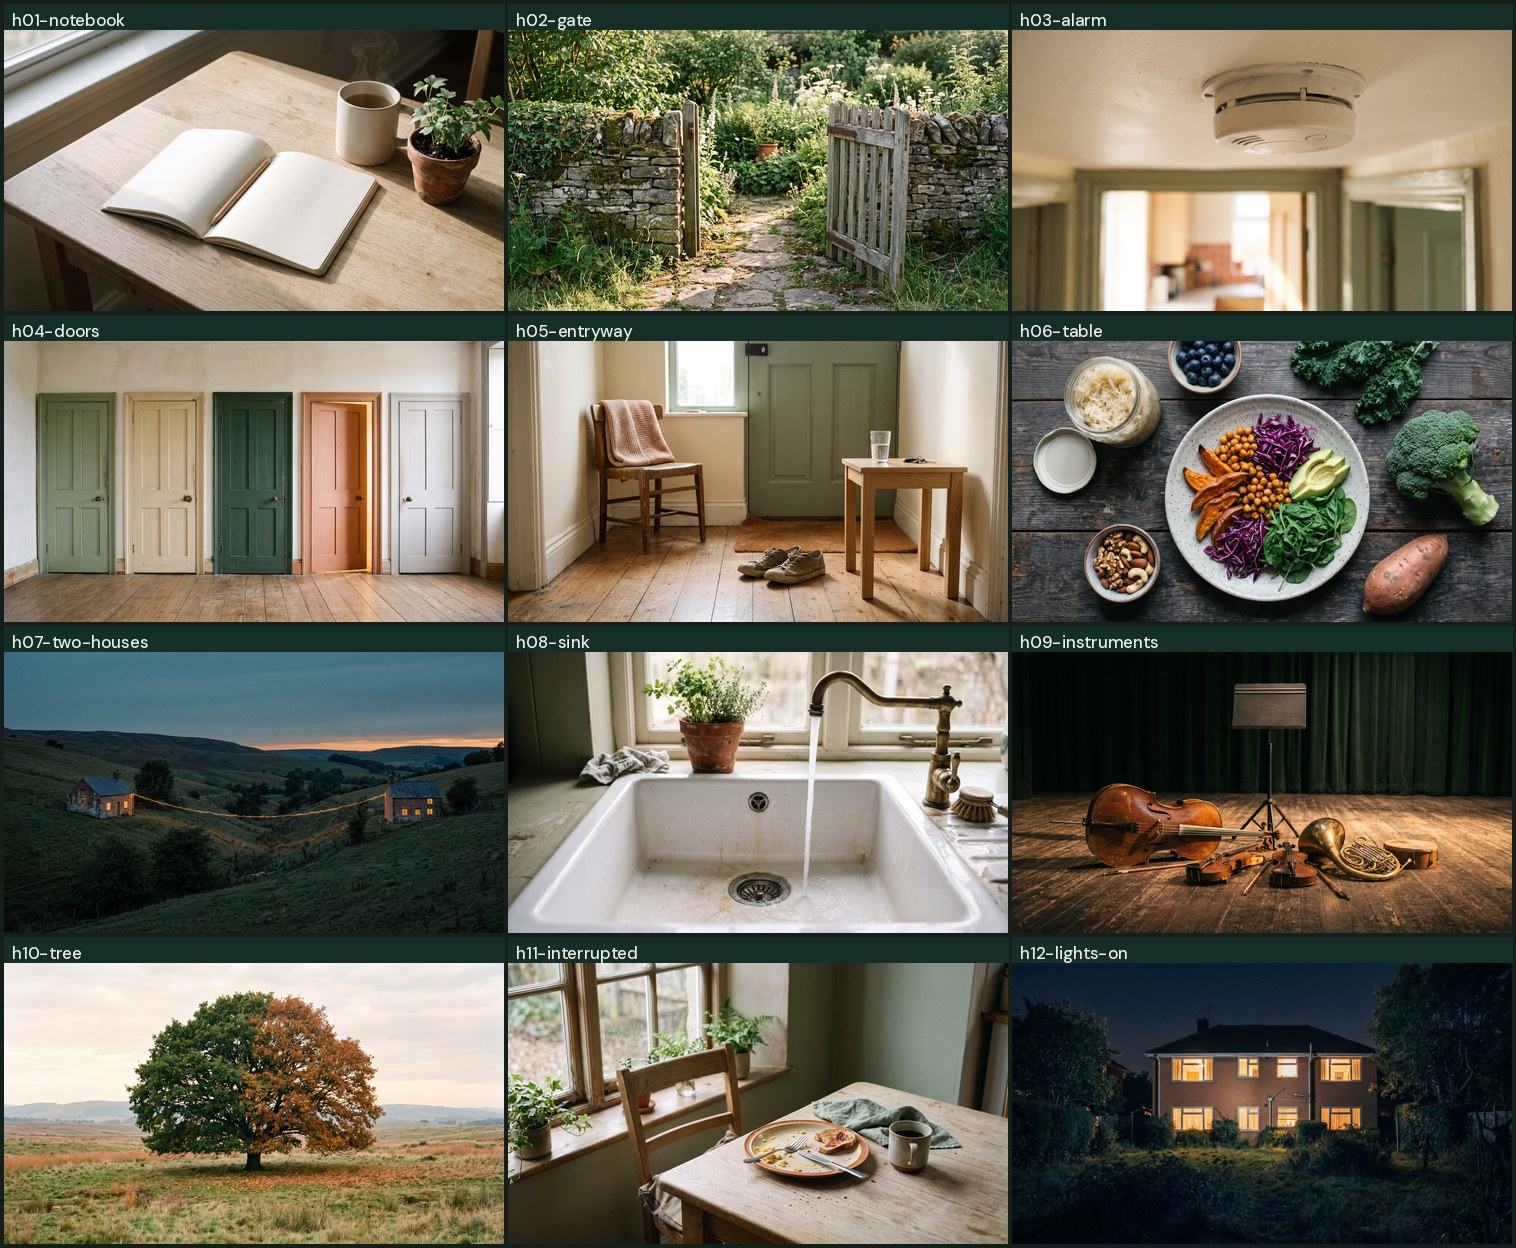
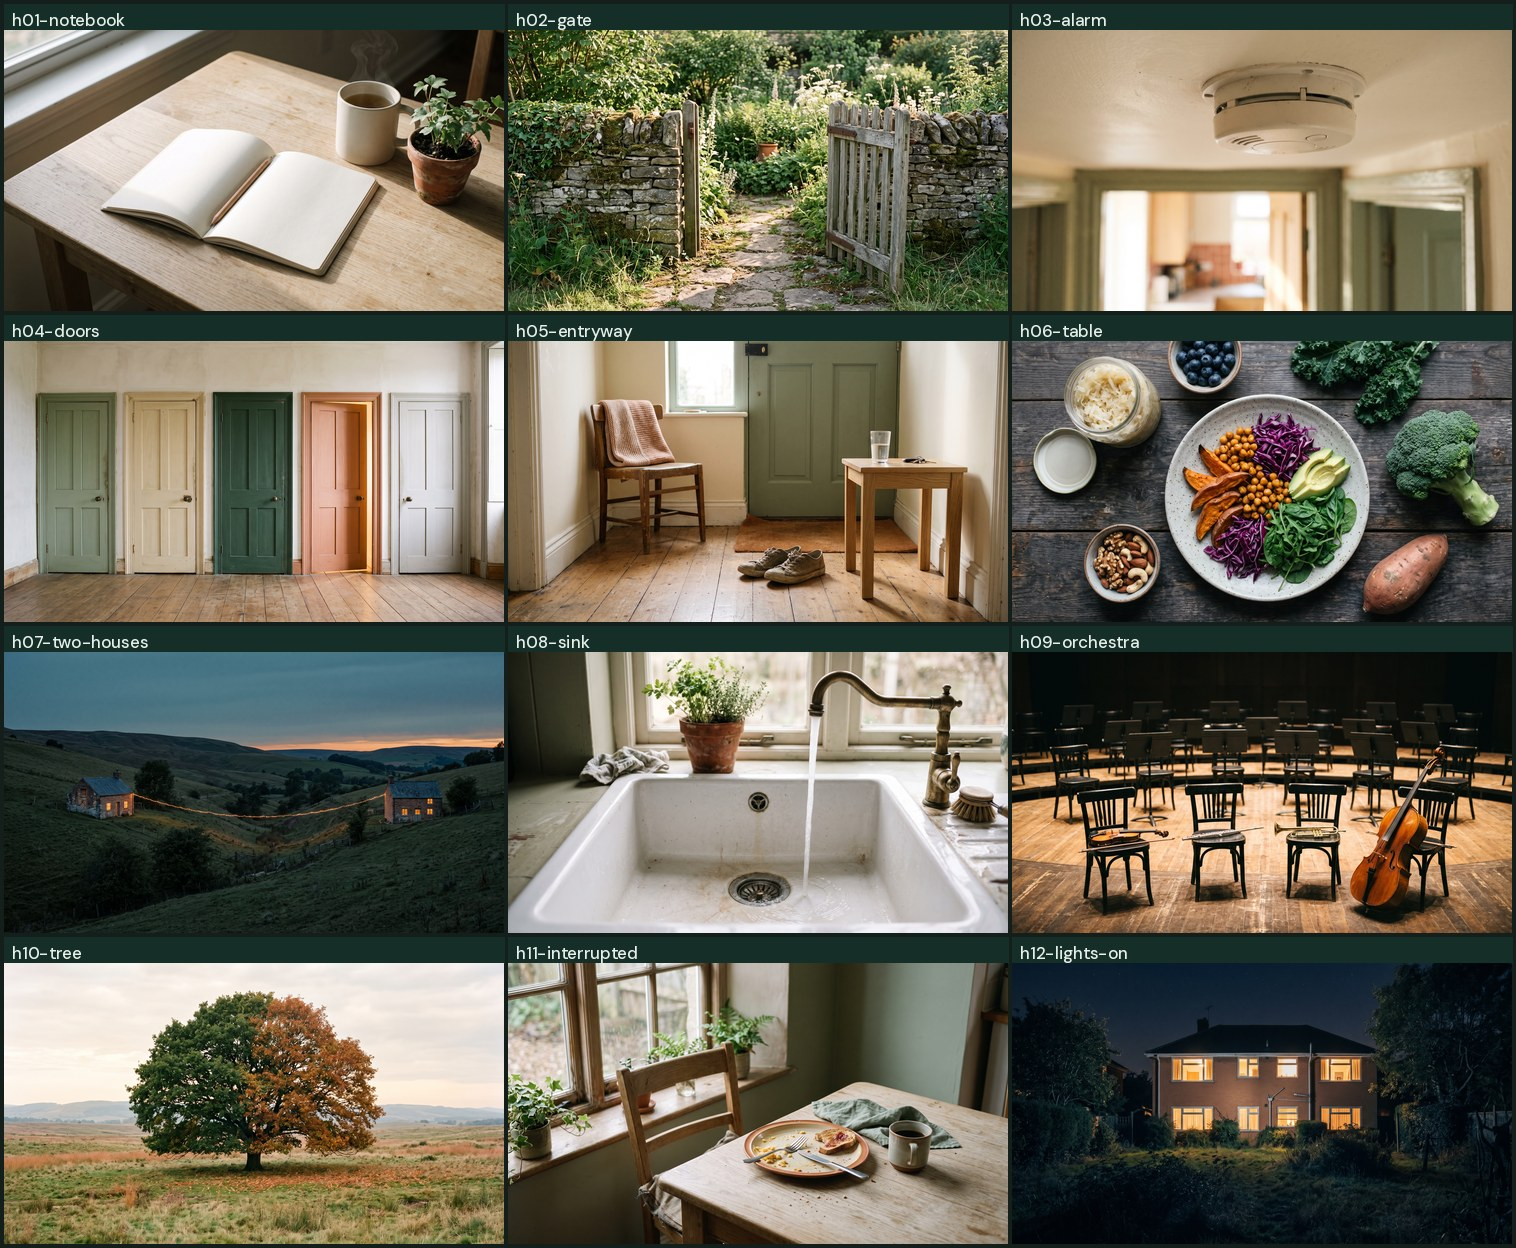
Choose C3 for Lesson 08 and stage the twelve heroes for upload
C3 keeps the music stands in the rows behind rather than the front row.
The mass of chairs and stands receding into the dark is what makes it
read as an orchestra, and the front four instruments stay clean.

C1 showed why the literally correct staging is the wrong move: with the
stands in front where they belong, four dark rectangles cut across the
trumpet and the cello.

Adds upload/ holding exactly the twelve files and nothing else, renamed
to library names mapped to lesson ids. The working directory has
options and contact sheets mixed in, so uploading from it invites
picking the wrong file. The names deliberately avoid the existing
hero-01-sieve pattern, since the cut-paper originals still hold those
and a collision would make the wrong image easy to place.

Claude-Session: https://claude.ai/code/session_013gugvQ9ie5ZPmjYiiUPcYq

Changed region(s): [[0.6511, 0.5312, 1.0, 0.75], [0.7131, 0.5, 0.7441, 0.5312]]

diff --git a/Website/mockups/heroes/PROMPTS.md b/Website/mockups/heroes/PROMPTS.md
@@ -149,3 +149,52 @@ model usually ruins. Stands empty, no notation, no text, nobody present.
 **Awaiting Steve's pick between A, B and C.** On his word the chosen file joins
 the twelve and the alt text is rewritten to describe the chairs rather than a
 pile of instruments.
+
+### Chosen: C3, 2026-10-27
+
+Steve picked C3. The staging problem he spotted was real and the stands were
+reversed, not merely misplaced: a stand belongs in front of the player, between
+them and the conductor, so from the audience side the backs of the stands
+should be visible with the chairs behind them.
+
+C1 corrected that and showed why correcting it is the wrong move here. Four
+dark stands then sit across the middle of the frame and clip the trumpet and
+the cello. The staging is right and the subject is lost.
+
+C3 keeps the stands Steve wanted for the scene, in the rows behind rather than
+the front row, where the mass of chairs and stands receding into the dark is
+what actually produces the orchestra. The front four read clean. An empty front
+desk with its stand not yet set is unremarkable.
+
+Front row checked at native resolution: violin with bow, flute with correct
+keywork, trumpet with three valves, cello. Four different instruments as asked,
+no text, nobody present.
+
+Files: `h09-orchestra.png` / `.jpg` is the chosen frame.
+`h09-instruments-rejected.png` is the original pile. The other candidates stay
+as `h09-alt-*` and `h09-c1-stands-front` for the record.
+
+## The upload set
+
+`upload/` holds exactly the twelve files to upload and nothing else, renamed to
+library names so placement is unambiguous. The working directory above it has
+options and contact sheets mixed in and is not the thing to upload from.
+
+| Upload file | Lesson id |
+|---|---|
+| `hero-start-here.jpg` | 2201324057 |
+| `hero-scope.jpg` | 2201324059 |
+| `hero-l02-alarm.jpg` | 2201324061 |
+| `hero-l03-doors.jpg` | 2201324062 |
+| `hero-l04-habits.jpg` | 2201324063 |
+| `hero-l05-nutrition.jpg` | 2201324064 |
+| `hero-l06-gut-brain.jpg` | 2201324065 |
+| `hero-l07-gut-liver.jpg` | 2201324066 |
+| `hero-l08-orchestra.jpg` | 2201324067 |
+| `hero-b1-midlife.jpg` | 2201324068 |
+| `hero-b2-pressure.jpg` | 2201324069 |
+| `hero-b3-alert.jpg` | 2201324070 |
+
+Deliberately not reusing the existing `hero-01-sieve` style names, because the
+cut-paper originals still carry those and a collision in the library would make
+the wrong image easy to place.
